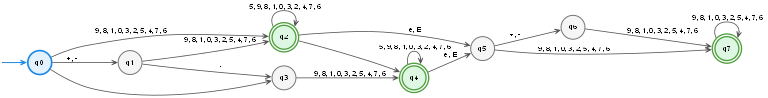
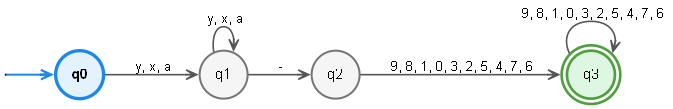
actualizada

Changed region(s): [[0.0, 0.0306, 0.9985, 0.9796]]

diff --git a/files/automata-highlight.html b/files/automata-highlight.html
@@ -66,6 +66,6 @@
     }
   </style>
 </head>
-<body><span class='keyword'>states</span><span class='operator'> =</span> <span class='state'>q0</span><span class='symbol'>,</span> <span class='state'>q1</span><span class='symbol'>,</span> <span class='state'>q2</span><span class='symbol'>,</span> <span class='state'>q3</span><span class='symbol'>,</span> <span class='state'>q4</span><span class='symbol'>,</span> <span class='state'>q5</span><span class='symbol'>,</span> <span class='state'>q6</span><span class='symbol'>,</span> <span class='state'>q7</span><span class='symbol'>;</span><br><span class='keyword'>start</span><span class='operator'> =</span> <span class='state'>q0</span><span class='symbol'>;</span><br><span class='keyword'>finals</span><span class='operator'> =</span> <span class='state'>q2</span><span class='symbol'>,</span> <span class='state'>q4</span><span class='symbol'>,</span> <span class='state'>q7</span><span class='symbol'>;</span><br><span class='keyword'>alphabet</span><span class='operator'> =</span> <span class='error'>"+-0123456789.eE"</span><span class='symbol'>;</span><br><span class='keyword'>transitions</span><span class='symbol'>:</span> <span class='state'>q0</span><span class='bracket'>(</span><span class='error'>"+-"</span><span class='bracket'>)</span><span class='operator'> -&gt;</span> <span class='state'>q1</span><span class='symbol'>;</span><br><span class='state'>q0</span><span class='bracket'>(</span><span class='error'>"0123456789"</span><span class='bracket'>)</span><span class='operator'> -&gt;</span> <span class='state'>q2</span><span class='symbol'>;</span><br><span class='state'>q0</span><span class='bracket'>(</span><span class='error'>"."</span><span class='bracket'>)</span><span class='operator'> -&gt;</span> <span class='state'>q3</span><span class='symbol'>;</span><br><span class='state'>q1</span><span class='bracket'>(</span><span class='error'>"0123456789"</span><span class='bracket'>)</span><span class='operator'> -&gt;</span> <span class='state'>q2</span><span class='symbol'>;</span><br><span class='state'>q1</span><span class='bracket'>(</span><span class='error'>"."</span><span class='bracket'>)</span><span class='operator'> -&gt;</span> <span class='state'>q3</span><span class='symbol'>;</span><br><span class='state'>q2</span><span class='bracket'>(</span><span class='error'>"0123456789"</span><span class='bracket'>)</span><span class='operator'> -&gt;</span> <span class='state'>q2</span><span class='symbol'>;</span><br><span class='state'>q2</span><span class='bracket'>(</span><span class='error'>"."</span><span class='bracket'>)</span><span class='operator'> -&gt;</span> <span class='state'>q4</span><span class='symbol'>;</span><br><span class='state'>q2</span><span class='bracket'>(</span><span class='error'>"eE"</span><span class='bracket'>)</span><span class='operator'> -&gt;</span> <span class='state'>q5</span><span class='symbol'>;</span><br><span class='state'>q3</span><span class='bracket'>(</span><span class='error'>"0123456789"</span><span class='bracket'>)</span><span class='operator'> -&gt;</span> <span class='state'>q4</span><span class='symbol'>;</span><br><span class='state'>q4</span><span class='bracket'>(</span><span class='error'>"0123456789"</span><span class='bracket'>)</span><span class='operator'> -&gt;</span> <span class='state'>q4</span><span class='symbol'>;</span><br><span class='state'>q4</span><span class='bracket'>(</span><span class='error'>"eE"</span><span class='bracket'>)</span><span class='operator'> -&gt;</span> <span class='state'>q5</span><span class='symbol'>;</span><br><span class='state'>q5</span><span class='bracket'>(</span><span class='error'>"+-"</span><span class='bracket'>)</span><span class='operator'> -&gt;</span> <span class='state'>q6</span><span class='symbol'>;</span><br><span class='state'>q5</span><span class='bracket'>(</span><span class='error'>"0123456789"</span><span class='bracket'>)</span><span class='operator'> -&gt;</span> <span class='state'>q7</span><span class='symbol'>;</span><br><span class='state'>q6</span><span class='bracket'>(</span><span class='error'>"0123456789"</span><span class='bracket'>)</span><span class='operator'> -&gt;</span> <span class='state'>q7</span><span class='symbol'>;</span><br><span class='state'>q7</span><span class='bracket'>(</span><span class='error'>"0123456789"</span><span class='bracket'>)</span><span class='operator'> -&gt;</span> <span class='state'>q7</span><span class='symbol'>;</span><br><span class='keyword'>end</span><br><span class='keyword'>check</span><span class='operator'> =</span> <span class='error'>"123"</span><span class='symbol'>;</span><br><span class='keyword'>check</span><span class='operator'> =</span> <span class='error'>"-45.67"</span><span class='symbol'>;</span><br><span class='keyword'>check</span><span class='operator'> =</span> <span class='error'>"+0.123"</span><span class='symbol'>;</span><br><span class='keyword'>check</span><span class='operator'> =</span> <span class='error'>".99"</span><span class='symbol'>;</span><br><span class='keyword'>check</span><span class='operator'> =</span> <span class='error'>"12e5"</span><span class='symbol'>;</span><br><span class='keyword'>check</span><span class='operator'> =</span> <span class='error'>"3.14E-10"</span><span class='symbol'>;</span><br><span class='keyword'>check</span><span class='operator'> =</span> <span class='error'>"-.5E+2"</span><span class='symbol'>;</span><br><span class='keyword'>check</span><span class='operator'> =</span> <span class='error'>"+"</span><span class='symbol'>;</span><br><span class='keyword'>check</span><span class='operator'> =</span> <span class='error'>"."</span><span class='symbol'>;</span><br><span class='keyword'>check</span><span class='operator'> =</span> <span class='error'>"12e"</span><span class='symbol'>;</span><br><span class='keyword'>check</span><span class='operator'> =</span> <span class='error'>"3.14E-"</span><span class='symbol'>;</span><br><span class='keyword'>check</span><span class='operator'> =</span> <span class='error'>"abc"</span><span class='symbol'>;</span><br><br><br><span class='accepted'>123 -> accepted</span><br><span class='accepted'>-45.67 -> accepted</span><br><span class='accepted'>+0.123 -> accepted</span><br><span class='accepted'>.99 -> accepted</span><br><span class='accepted'>12e5 -> accepted</span><br><span class='accepted'>3.14E-10 -> accepted</span><br><span class='accepted'>-.5E+2 -> accepted</span><br><span class='rejected'>+ -> rejected</span><br><span class='rejected'>. -> rejected</span><br><span class='rejected'>12e -> rejected</span><br><span class='rejected'>3.14E- -> rejected</span><br><span class='rejected'>abc -> rejected</span><br><img src='dfa.png' alt='El gráfico del autómata no pudo ser compilado T_T'>
+<body><span class='keyword'>states</span><span class='operator'> =</span> <span class='state'>q0</span><span class='symbol'>,</span> <span class='state'>q1</span><span class='symbol'>,</span> <span class='state'>q2</span><span class='symbol'>,</span> <span class='state'>q3</span><span class='symbol'>;</span><br><span class='keyword'>start</span><span class='operator'> =</span> <span class='state'>q0</span><span class='symbol'>;</span><br><span class='keyword'>finals</span><span class='operator'> =</span> <span class='state'>q3</span><span class='symbol'>;</span><br><span class='keyword'>alphabet</span><span class='operator'> =</span> <span class='error'>"axy01234567890-"</span><span class='symbol'>;</span><br><span class='keyword'>transitions</span><span class='symbol'>:</span> <span class='state'>q0</span><span class='bracket'>(</span><span class='error'>"axy"</span><span class='bracket'>)</span><span class='operator'> -&gt;</span> <span class='state'>q1</span><span class='symbol'>;</span><br><span class='state'>q1</span><span class='bracket'>(</span><span class='error'>"axy"</span><span class='bracket'>)</span><span class='operator'> -&gt;</span> <span class='state'>q1</span><span class='symbol'>;</span><br><span class='state'>q1</span><span class='bracket'>(</span><span class='error'>"-"</span><span class='bracket'>)</span><span class='operator'> -&gt;</span> <span class='state'>q2</span><span class='symbol'>;</span><br><span class='state'>q2</span><span class='bracket'>(</span><span class='error'>"0123456789"</span><span class='bracket'>)</span><span class='operator'> -&gt;</span> <span class='state'>q3</span><span class='symbol'>;</span><br><span class='state'>q3</span><span class='bracket'>(</span><span class='error'>"0123456789"</span><span class='bracket'>)</span><span class='operator'> -&gt;</span> <span class='state'>q3</span><span class='symbol'>;</span><br><span class='keyword'>end</span><br><span class='keyword'>check</span><span class='operator'> =</span> <span class='error'>"axy-012"</span><span class='symbol'>;</span><br><span class='keyword'>check</span><span class='operator'> =</span> <span class='error'>"axy12"</span><span class='symbol'>;</span><br><span class='keyword'>check</span><span class='operator'> =</span> <span class='error'>"a-1"</span><span class='symbol'>;</span><br><br><br><span class='accepted'>axy-012 -> accepted</span><br><span class='rejected'>axy12 -> rejected</span><br><span class='accepted'>a-1 -> accepted</span><br><img src='dfa.png' alt='El gráfico del autómata no pudo ser compilado T_T'>
 </body>
 </html>